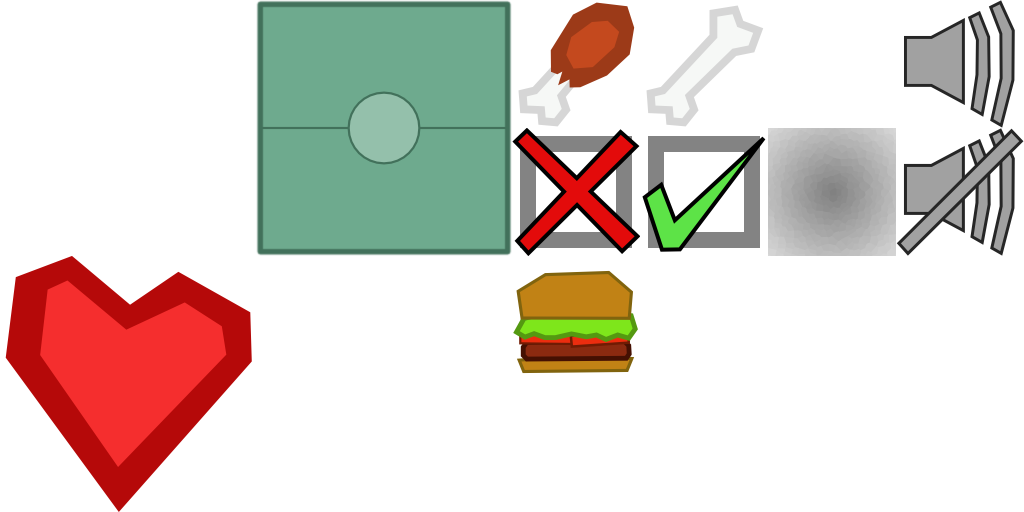
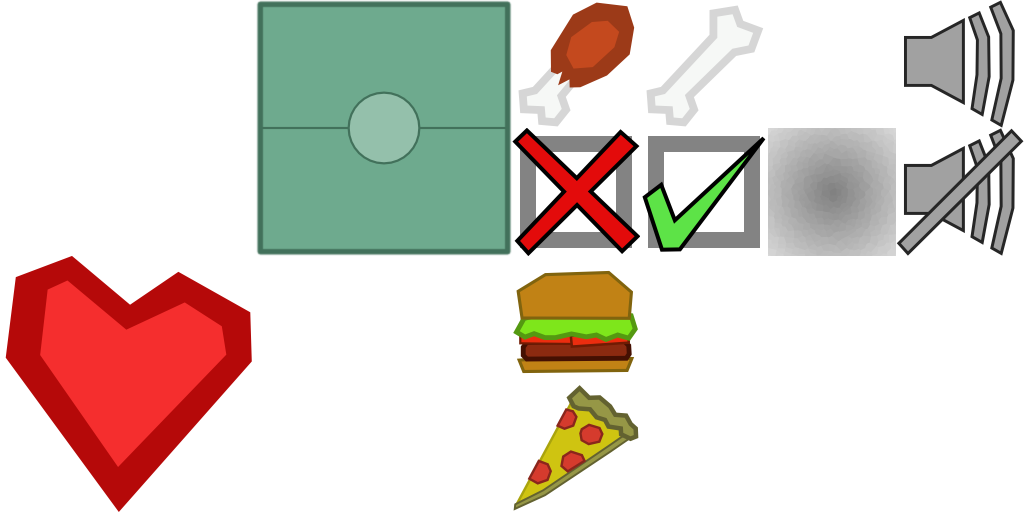
Added new food sprite

Changed region(s): [[0.5, 0.75, 0.625, 1.0]]

diff --git a/DodgeGame/src/walnoot/dodgegame/Util.java b/DodgeGame/src/walnoot/dodgegame/Util.java
@@ -9,6 +9,7 @@ public class Util{
 	public static final TextureRegion FONT = getRegion(0.25f, 0.5f, 0.5f, 1f);
 	public static final TextureRegion FOOD_ONE = getRegion(0.5f, 0f, 0.625f, 0.25f);
 	public static final TextureRegion FOOD_TWO = getRegion(0.5f, 0.5f, 0.625f, 0.75f);
+	public static final TextureRegion FOOD_THREE = getRegion(0.5f, 0.75f, 0.625f, 1f);
 	public static final TextureRegion ICON_FALSE = getRegion(0.5f, 0.25f, 0.625f, 0.5f);
 	public static final TextureRegion ICON_TRUE = getRegion(0.625f, 0.25f, 0.75f, 0.5f);
 	public static final TextureRegion BAD_FOOD_ONE = getRegion(0.625f, 0f, 0.75f, 0.25f);

diff --git a/DodgeGame/src/walnoot/dodgegame/components/ObjectModifierComponent.java b/DodgeGame/src/walnoot/dodgegame/components/ObjectModifierComponent.java
@@ -99,7 +99,7 @@ public class ObjectModifierComponent extends Component{
 	}
 	
 	public enum ModifierType{
-		GROW(Util.FOOD_ONE, Util.FOOD_TWO), SHRINK(Util.BAD_FOOD_ONE), DEATH(Util.DOT);
+		GROW(Util.FOOD_ONE, Util.FOOD_TWO, Util.FOOD_THREE), SHRINK(Util.BAD_FOOD_ONE), DEATH(Util.DOT);
 		
 		private final TextureRegion[] regions;
 		

diff --git a/DodgeGame/src/walnoot/dodgegame/states/TutorialState.java b/DodgeGame/src/walnoot/dodgegame/states/TutorialState.java
@@ -79,7 +79,7 @@ public class TutorialState extends State{
 			case GOOD_FOOD:
 				sprites.add(new Sprite(Util.FOOD_ONE));
 				sprites.add(new Sprite(Util.FOOD_TWO));
-				sprites.add(new Sprite(Util.DOT));
+				sprites.add(new Sprite(Util.FOOD_THREE));
 				
 				text = "EAT THESE TO GROW!";
 				
